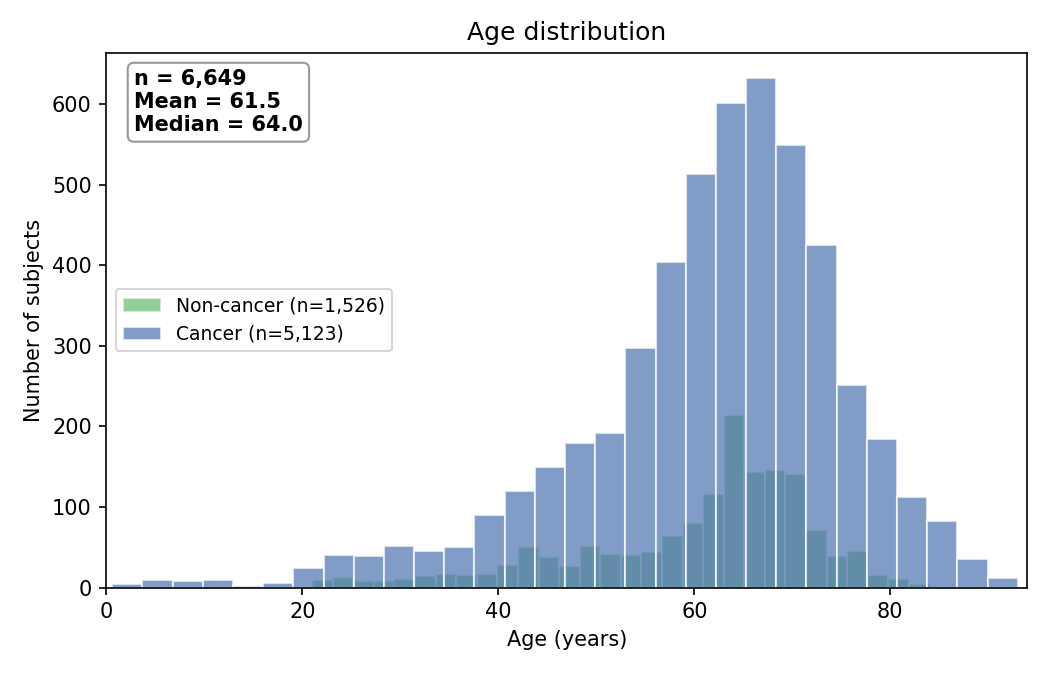
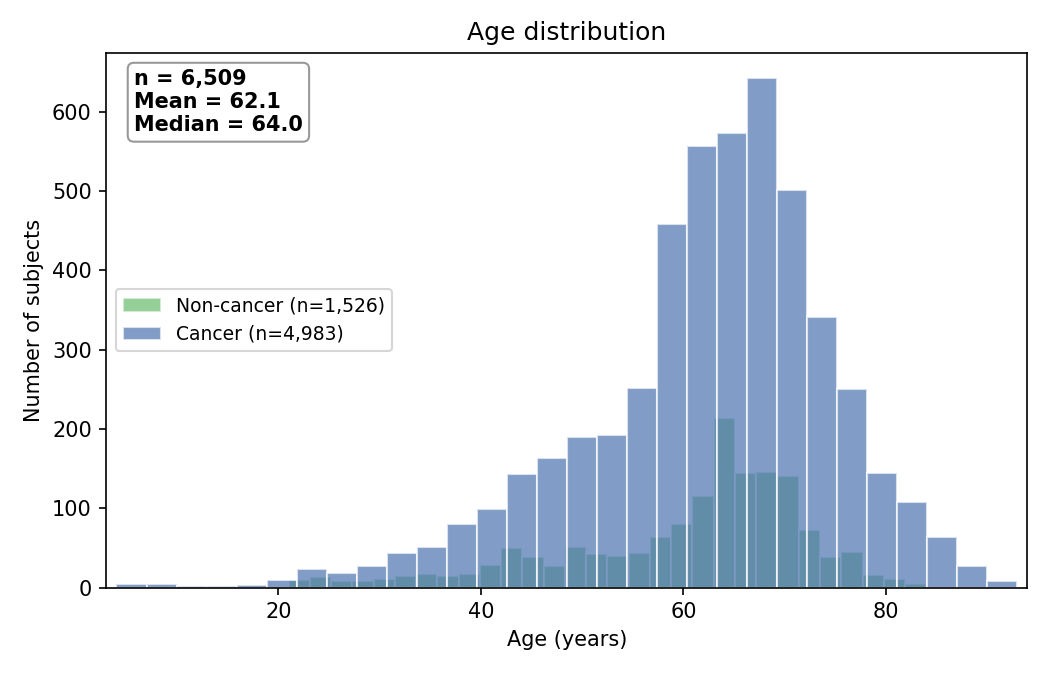
Update dashboard 2026-09-07 11:30

diff --git a/global_map.html b/global_map.html
@@ -2,6 +2,6 @@
 <head><meta charset="utf-8" /></head>
 <body>
     <div style="height:500px; width:100%;">                        <script>window.PlotlyConfig = {MathJaxConfig: 'local'};</script>
-        <script charset="utf-8" src="https://cdn.plot.ly/plotly-3.7.0.min.js" integrity="sha256-jvTGqxNp8AGWEcvNLVuKr+8j5dGe9Yw51LQkmDH+IYA=" crossorigin="anonymous"></script>                <div id="c86f0f5b-407a-4811-8865-06a8cb90c9fa" class="plotly-graph-div" style="height:100%; width:100%;"></div>            <script>                window.PLOTLYENV=window.PLOTLYENV || {};                                if (document.getElementById("c86f0f5b-407a-4811-8865-06a8cb90c9fa")) {                    Plotly.newPlot(                        "c86f0f5b-407a-4811-8865-06a8cb90c9fa",                        [{"colorscale":[[0,"#FEF9E7"],[1,"#E59866"]],"hoverinfo":"text","locations":["AUT","CAN","CHN","CZE","FRA","DEU","IND","ISR","ITA","JPN","NLD","POL","KOR","ESP","CHE","TUR","GBR","USA"],"marker":{"line":{"color":"white","width":0.5}},"showscale":false,"text":["\u003cb\u003eAustria\u003c\u002fb\u003e\u003cbr\u003eTotal samples: 154\u003cbr\u003eStudies: 1\u003cbr\u003e\u2500\u2500\u2500\u2500\u2500\u2500\u2500\u2500\u2500\u2500\u2500\u2500\u2500\u003cbr\u003eCRC: 93","\u003cb\u003eCanada\u003c\u002fb\u003e\u003cbr\u003eTotal samples: 98\u003cbr\u003eStudies: 2\u003cbr\u003e\u2500\u2500\u2500\u2500\u2500\u2500\u2500\u2500\u2500\u2500\u2500\u2500\u2500\u003cbr\u003eMelanoma: 60\u003cbr\u003eCRC: 24","\u003cb\u003eChina\u003c\u002fb\u003e\u003cbr\u003eTotal samples: 756\u003cbr\u003eStudies: 7\u003cbr\u003e\u2500\u2500\u2500\u2500\u2500\u2500\u2500\u2500\u2500\u2500\u2500\u2500\u2500\u003cbr\u003eCRC: 418\u003cbr\u003eLymphoma: 111\u003cbr\u003eLeukemia: 20","\u003cb\u003eCzech Republic\u003c\u002fb\u003e\u003cbr\u003eTotal samples: 327\u003cbr\u003eStudies: 2\u003cbr\u003e\u2500\u2500\u2500\u2500\u2500\u2500\u2500\u2500\u2500\u2500\u2500\u2500\u2500\u003cbr\u003eCRC: 281","\u003cb\u003eFrance\u003c\u002fb\u003e\u003cbr\u003eTotal samples: 1,373\u003cbr\u003eStudies: 4\u003cbr\u003e\u2500\u2500\u2500\u2500\u2500\u2500\u2500\u2500\u2500\u2500\u2500\u2500\u2500\u003cbr\u003eLung Cancer: 1,217\u003cbr\u003eCRC: 95","\u003cb\u003eGermany\u003c\u002fb\u003e\u003cbr\u003eTotal samples: 430\u003cbr\u003eStudies: 3\u003cbr\u003e\u2500\u2500\u2500\u2500\u2500\u2500\u2500\u2500\u2500\u2500\u2500\u2500\u2500\u003cbr\u003eLymphoma: 229\u003cbr\u003ePancreatic Cancer: 76\u003cbr\u003eCRC: 60","\u003cb\u003eIndia\u003c\u002fb\u003e\u003cbr\u003eTotal samples: 200\u003cbr\u003eStudies: 2\u003cbr\u003e\u2500\u2500\u2500\u2500\u2500\u2500\u2500\u2500\u2500\u2500\u2500\u2500\u2500\u003cbr\u003eCRC: 170","\u003cb\u003eIsrael\u003c\u002fb\u003e\u003cbr\u003eTotal samples: 42\u003cbr\u003eStudies: 1\u003cbr\u003e\u2500\u2500\u2500\u2500\u2500\u2500\u2500\u2500\u2500\u2500\u2500\u2500\u2500\u003cbr\u003eMelanoma: 42","\u003cb\u003eItaly\u003c\u002fb\u003e\u003cbr\u003eTotal samples: 484\u003cbr\u003eStudies: 4\u003cbr\u003e\u2500\u2500\u2500\u2500\u2500\u2500\u2500\u2500\u2500\u2500\u2500\u2500\u2500\u003cbr\u003eCRC: 373","\u003cb\u003eJapan\u003c\u002fb\u003e\u003cbr\u003eTotal samples: 1,766\u003cbr\u003eStudies: 4\u003cbr\u003e\u2500\u2500\u2500\u2500\u2500\u2500\u2500\u2500\u2500\u2500\u2500\u2500\u2500\u003cbr\u003eCRC: 807\u003cbr\u003ePancreatic Cancer: 560","\u003cb\u003eNetherlands\u003c\u002fb\u003e\u003cbr\u003eTotal samples: 75\u003cbr\u003eStudies: 2\u003cbr\u003e\u2500\u2500\u2500\u2500\u2500\u2500\u2500\u2500\u2500\u2500\u2500\u2500\u2500\u003cbr\u003eMelanoma: 75","\u003cb\u003ePoland\u003c\u002fb\u003e\u003cbr\u003eTotal samples: 322\u003cbr\u003eStudies: 2\u003cbr\u003e\u2500\u2500\u2500\u2500\u2500\u2500\u2500\u2500\u2500\u2500\u2500\u2500\u2500\u003cbr\u003eBreast Cancer: 153\u003cbr\u003eLymphoma: 60\u003cbr\u003eLeukemia: 40","\u003cb\u003eSouth Korea\u003c\u002fb\u003e\u003cbr\u003eTotal samples: 149\u003cbr\u003eStudies: 2\u003cbr\u003e\u2500\u2500\u2500\u2500\u2500\u2500\u2500\u2500\u2500\u2500\u2500\u2500\u2500\u003cbr\u003eLymphoma: 149","\u003cb\u003eSpain\u003c\u002fb\u003e\u003cbr\u003eTotal samples: 355\u003cbr\u003eStudies: 3\u003cbr\u003e\u2500\u2500\u2500\u2500\u2500\u2500\u2500\u2500\u2500\u2500\u2500\u2500\u2500\u003cbr\u003ePancreatic Cancer: 253\u003cbr\u003eCRC: 90\u003cbr\u003eMelanoma: 12","\u003cb\u003eSwitzerland\u003c\u002fb\u003e\u003cbr\u003eTotal samples: 29\u003cbr\u003eStudies: 1\u003cbr\u003e\u2500\u2500\u2500\u2500\u2500\u2500\u2500\u2500\u2500\u2500\u2500\u2500\u2500\u003cbr\u003eProstate Cancer: 29","\u003cb\u003eTurkey\u003c\u002fb\u003e\u003cbr\u003eTotal samples: 57\u003cbr\u003eStudies: 1\u003cbr\u003e\u2500\u2500\u2500\u2500\u2500\u2500\u2500\u2500\u2500\u2500\u2500\u2500\u2500\u003cbr\u003eCRC: 18","\u003cb\u003eUnited Kingdom\u003c\u002fb\u003e\u003cbr\u003eTotal samples: 143\u003cbr\u003eStudies: 2\u003cbr\u003e\u2500\u2500\u2500\u2500\u2500\u2500\u2500\u2500\u2500\u2500\u2500\u2500\u2500\u003cbr\u003eMelanoma: 98\u003cbr\u003eProstate Cancer: 45","\u003cb\u003eUnited States\u003c\u002fb\u003e\u003cbr\u003eTotal samples: 2,096\u003cbr\u003eStudies: 13\u003cbr\u003e\u2500\u2500\u2500\u2500\u2500\u2500\u2500\u2500\u2500\u2500\u2500\u2500\u2500\u003cbr\u003eCRC: 836\u003cbr\u003eMelanoma: 607\u003cbr\u003eLymphoma: 122"],"z":{"dtype":"i2","bdata":"mgBiAPQCRwFdBa4ByAAqAOQB5gZLAEIBlQBjAR0AOQCPADAI"},"type":"choropleth"},{"hoverinfo":"text","locations":["AUT","CAN","CHN","CZE","FRA","DEU","IND","ISR","ITA","JPN","NLD","POL","KOR","ESP","CHE","TUR","GBR","USA"],"marker":{"color":"#2166AC","line":{"color":"white","width":1},"opacity":0.7,"size":{"dtype":"f8","bdata":"AAAAAAAAIEAAAAAAAAAgQD0K16NwPS5AAAAAAAAAIED2KFyPwnU7QDMzMzMzMyFAAAAAAAAAIEAAAAAAAAAgQFyPwvUoXCNAKVyPwvWoQUAAAAAAAAAgQAAAAAAAACBAAAAAAAAAIEAAAAAAAAAgQAAAAAAAACBAAAAAAAAAIEAAAAAAAAAgQPYoXI\u002fC9URA"}},"mode":"markers","text":["\u003cb\u003eAustria\u003c\u002fb\u003e\u003cbr\u003eTotal samples: 154\u003cbr\u003eStudies: 1\u003cbr\u003e\u2500\u2500\u2500\u2500\u2500\u2500\u2500\u2500\u2500\u2500\u2500\u2500\u2500\u003cbr\u003eCRC: 93","\u003cb\u003eCanada\u003c\u002fb\u003e\u003cbr\u003eTotal samples: 98\u003cbr\u003eStudies: 2\u003cbr\u003e\u2500\u2500\u2500\u2500\u2500\u2500\u2500\u2500\u2500\u2500\u2500\u2500\u2500\u003cbr\u003eMelanoma: 60\u003cbr\u003eCRC: 24","\u003cb\u003eChina\u003c\u002fb\u003e\u003cbr\u003eTotal samples: 756\u003cbr\u003eStudies: 7\u003cbr\u003e\u2500\u2500\u2500\u2500\u2500\u2500\u2500\u2500\u2500\u2500\u2500\u2500\u2500\u003cbr\u003eCRC: 418\u003cbr\u003eLymphoma: 111\u003cbr\u003eLeukemia: 20","\u003cb\u003eCzech Republic\u003c\u002fb\u003e\u003cbr\u003eTotal samples: 327\u003cbr\u003eStudies: 2\u003cbr\u003e\u2500\u2500\u2500\u2500\u2500\u2500\u2500\u2500\u2500\u2500\u2500\u2500\u2500\u003cbr\u003eCRC: 281","\u003cb\u003eFrance\u003c\u002fb\u003e\u003cbr\u003eTotal samples: 1,373\u003cbr\u003eStudies: 4\u003cbr\u003e\u2500\u2500\u2500\u2500\u2500\u2500\u2500\u2500\u2500\u2500\u2500\u2500\u2500\u003cbr\u003eLung Cancer: 1,217\u003cbr\u003eCRC: 95","\u003cb\u003eGermany\u003c\u002fb\u003e\u003cbr\u003eTotal samples: 430\u003cbr\u003eStudies: 3\u003cbr\u003e\u2500\u2500\u2500\u2500\u2500\u2500\u2500\u2500\u2500\u2500\u2500\u2500\u2500\u003cbr\u003eLymphoma: 229\u003cbr\u003ePancreatic Cancer: 76\u003cbr\u003eCRC: 60","\u003cb\u003eIndia\u003c\u002fb\u003e\u003cbr\u003eTotal samples: 200\u003cbr\u003eStudies: 2\u003cbr\u003e\u2500\u2500\u2500\u2500\u2500\u2500\u2500\u2500\u2500\u2500\u2500\u2500\u2500\u003cbr\u003eCRC: 170","\u003cb\u003eIsrael\u003c\u002fb\u003e\u003cbr\u003eTotal samples: 42\u003cbr\u003eStudies: 1\u003cbr\u003e\u2500\u2500\u2500\u2500\u2500\u2500\u2500\u2500\u2500\u2500\u2500\u2500\u2500\u003cbr\u003eMelanoma: 42","\u003cb\u003eItaly\u003c\u002fb\u003e\u003cbr\u003eTotal samples: 484\u003cbr\u003eStudies: 4\u003cbr\u003e\u2500\u2500\u2500\u2500\u2500\u2500\u2500\u2500\u2500\u2500\u2500\u2500\u2500\u003cbr\u003eCRC: 373","\u003cb\u003eJapan\u003c\u002fb\u003e\u003cbr\u003eTotal samples: 1,766\u003cbr\u003eStudies: 4\u003cbr\u003e\u2500\u2500\u2500\u2500\u2500\u2500\u2500\u2500\u2500\u2500\u2500\u2500\u2500\u003cbr\u003eCRC: 807\u003cbr\u003ePancreatic Cancer: 560","\u003cb\u003eNetherlands\u003c\u002fb\u003e\u003cbr\u003eTotal samples: 75\u003cbr\u003eStudies: 2\u003cbr\u003e\u2500\u2500\u2500\u2500\u2500\u2500\u2500\u2500\u2500\u2500\u2500\u2500\u2500\u003cbr\u003eMelanoma: 75","\u003cb\u003ePoland\u003c\u002fb\u003e\u003cbr\u003eTotal samples: 322\u003cbr\u003eStudies: 2\u003cbr\u003e\u2500\u2500\u2500\u2500\u2500\u2500\u2500\u2500\u2500\u2500\u2500\u2500\u2500\u003cbr\u003eBreast Cancer: 153\u003cbr\u003eLymphoma: 60\u003cbr\u003eLeukemia: 40","\u003cb\u003eSouth Korea\u003c\u002fb\u003e\u003cbr\u003eTotal samples: 149\u003cbr\u003eStudies: 2\u003cbr\u003e\u2500\u2500\u2500\u2500\u2500\u2500\u2500\u2500\u2500\u2500\u2500\u2500\u2500\u003cbr\u003eLymphoma: 149","\u003cb\u003eSpain\u003c\u002fb\u003e\u003cbr\u003eTotal samples: 355\u003cbr\u003eStudies: 3\u003cbr\u003e\u2500\u2500\u2500\u2500\u2500\u2500\u2500\u2500\u2500\u2500\u2500\u2500\u2500\u003cbr\u003ePancreatic Cancer: 253\u003cbr\u003eCRC: 90\u003cbr\u003eMelanoma: 12","\u003cb\u003eSwitzerland\u003c\u002fb\u003e\u003cbr\u003eTotal samples: 29\u003cbr\u003eStudies: 1\u003cbr\u003e\u2500\u2500\u2500\u2500\u2500\u2500\u2500\u2500\u2500\u2500\u2500\u2500\u2500\u003cbr\u003eProstate Cancer: 29","\u003cb\u003eTurkey\u003c\u002fb\u003e\u003cbr\u003eTotal samples: 57\u003cbr\u003eStudies: 1\u003cbr\u003e\u2500\u2500\u2500\u2500\u2500\u2500\u2500\u2500\u2500\u2500\u2500\u2500\u2500\u003cbr\u003eCRC: 18","\u003cb\u003eUnited Kingdom\u003c\u002fb\u003e\u003cbr\u003eTotal samples: 143\u003cbr\u003eStudies: 2\u003cbr\u003e\u2500\u2500\u2500\u2500\u2500\u2500\u2500\u2500\u2500\u2500\u2500\u2500\u2500\u003cbr\u003eMelanoma: 98\u003cbr\u003eProstate Cancer: 45","\u003cb\u003eUnited States\u003c\u002fb\u003e\u003cbr\u003eTotal samples: 2,096\u003cbr\u003eStudies: 13\u003cbr\u003e\u2500\u2500\u2500\u2500\u2500\u2500\u2500\u2500\u2500\u2500\u2500\u2500\u2500\u003cbr\u003eCRC: 836\u003cbr\u003eMelanoma: 607\u003cbr\u003eLymphoma: 122"],"type":"scattergeo"}],                        {"template":{"data":{"histogram2dcontour":[{"type":"histogram2dcontour","colorbar":{"outlinewidth":0,"ticks":""},"colorscale":[[0.0,"#0d0887"],[0.1111111111111111,"#46039f"],[0.2222222222222222,"#7201a8"],[0.3333333333333333,"#9c179e"],[0.4444444444444444,"#bd3786"],[0.5555555555555556,"#d8576b"],[0.6666666666666666,"#ed7953"],[0.7777777777777778,"#fb9f3a"],[0.8888888888888888,"#fdca26"],[1.0,"#f0f921"]]}],"choropleth":[{"type":"choropleth","colorbar":{"outlinewidth":0,"ticks":""}}],"histogram2d":[{"type":"histogram2d","colorbar":{"outlinewidth":0,"ticks":""},"colorscale":[[0.0,"#0d0887"],[0.1111111111111111,"#46039f"],[0.2222222222222222,"#7201a8"],[0.3333333333333333,"#9c179e"],[0.4444444444444444,"#bd3786"],[0.5555555555555556,"#d8576b"],[0.6666666666666666,"#ed7953"],[0.7777777777777778,"#fb9f3a"],[0.8888888888888888,"#fdca26"],[1.0,"#f0f921"]]}],"heatmap":[{"type":"heatmap","colorbar":{"outlinewidth":0,"ticks":""},"colorscale":[[0.0,"#0d0887"],[0.1111111111111111,"#46039f"],[0.2222222222222222,"#7201a8"],[0.3333333333333333,"#9c179e"],[0.4444444444444444,"#bd3786"],[0.5555555555555556,"#d8576b"],[0.6666666666666666,"#ed7953"],[0.7777777777777778,"#fb9f3a"],[0.8888888888888888,"#fdca26"],[1.0,"#f0f921"]]}],"contourcarpet":[{"type":"contourcarpet","colorbar":{"outlinewidth":0,"ticks":""}}],"contour":[{"type":"contour","colorbar":{"outlinewidth":0,"ticks":""},"colorscale":[[0.0,"#0d0887"],[0.1111111111111111,"#46039f"],[0.2222222222222222,"#7201a8"],[0.3333333333333333,"#9c179e"],[0.4444444444444444,"#bd3786"],[0.5555555555555556,"#d8576b"],[0.6666666666666666,"#ed7953"],[0.7777777777777778,"#fb9f3a"],[0.8888888888888888,"#fdca26"],[1.0,"#f0f921"]]}],"surface":[{"type":"surface","colorbar":{"outlinewidth":0,"ticks":""},"colorscale":[[0.0,"#0d0887"],[0.1111111111111111,"#46039f"],[0.2222222222222222,"#7201a8"],[0.3333333333333333,"#9c179e"],[0.4444444444444444,"#bd3786"],[0.5555555555555556,"#d8576b"],[0.6666666666666666,"#ed7953"],[0.7777777777777778,"#fb9f3a"],[0.8888888888888888,"#fdca26"],[1.0,"#f0f921"]]}],"mesh3d":[{"type":"mesh3d","colorbar":{"outlinewidth":0,"ticks":""}}],"scatter":[{"fillpattern":{"fillmode":"overlay","size":10,"solidity":0.2},"type":"scatter"}],"parcoords":[{"type":"parcoords","line":{"colorbar":{"outlinewidth":0,"ticks":""}}}],"scatterpolargl":[{"type":"scatterpolargl","marker":{"colorbar":{"outlinewidth":0,"ticks":""}}}],"bar":[{"error_x":{"color":"#2a3f5f"},"error_y":{"color":"#2a3f5f"},"marker":{"line":{"color":"#E5ECF6","width":0.5},"pattern":{"fillmode":"overlay","size":10,"solidity":0.2}},"type":"bar"}],"scattergeo":[{"type":"scattergeo","marker":{"colorbar":{"outlinewidth":0,"ticks":""}}}],"scatterpolar":[{"type":"scatterpolar","marker":{"colorbar":{"outlinewidth":0,"ticks":""}}}],"histogram":[{"marker":{"pattern":{"fillmode":"overlay","size":10,"solidity":0.2}},"type":"histogram"}],"scattergl":[{"type":"scattergl","marker":{"colorbar":{"outlinewidth":0,"ticks":""}}}],"scatter3d":[{"type":"scatter3d","line":{"colorbar":{"outlinewidth":0,"ticks":""}},"marker":{"colorbar":{"outlinewidth":0,"ticks":""}}}],"scattermap":[{"type":"scattermap","marker":{"colorbar":{"outlinewidth":0,"ticks":""}}}],"scattermapbox":[{"type":"scattermapbox","marker":{"colorbar":{"outlinewidth":0,"ticks":""}}}],"scatterternary":[{"type":"scatterternary","marker":{"colorbar":{"outlinewidth":0,"ticks":""}}}],"scattercarpet":[{"type":"scattercarpet","marker":{"colorbar":{"outlinewidth":0,"ticks":""}}}],"carpet":[{"aaxis":{"endlinecolor":"#2a3f5f","gridcolor":"white","linecolor":"white","minorgridcolor":"white","startlinecolor":"#2a3f5f"},"baxis":{"endlinecolor":"#2a3f5f","gridcolor":"white","linecolor":"white","minorgridcolor":"white","startlinecolor":"#2a3f5f"},"type":"carpet"}],"table":[{"cells":{"fill":{"color":"#EBF0F8"},"line":{"color":"white"}},"header":{"fill":{"color":"#C8D4E3"},"line":{"color":"white"}},"type":"table"}],"barpolar":[{"marker":{"line":{"color":"#E5ECF6","width":0.5},"pattern":{"fillmode":"overlay","size":10,"solidity":0.2}},"type":"barpolar"}],"pie":[{"automargin":true,"type":"pie"}]},"layout":{"autotypenumbers":"strict","colorway":["#636efa","#EF553B","#00cc96","#ab63fa","#FFA15A","#19d3f3","#FF6692","#B6E880","#FF97FF","#FECB52"],"font":{"color":"#2a3f5f"},"hovermode":"closest","hoverlabel":{"align":"left"},"paper_bgcolor":"white","plot_bgcolor":"#E5ECF6","polar":{"bgcolor":"#E5ECF6","angularaxis":{"gridcolor":"white","linecolor":"white","ticks":""},"radialaxis":{"gridcolor":"white","linecolor":"white","ticks":""}},"ternary":{"bgcolor":"#E5ECF6","aaxis":{"gridcolor":"white","linecolor":"white","ticks":""},"baxis":{"gridcolor":"white","linecolor":"white","ticks":""},"caxis":{"gridcolor":"white","linecolor":"white","ticks":""}},"coloraxis":{"colorbar":{"outlinewidth":0,"ticks":""}},"colorscale":{"sequential":[[0.0,"#0d0887"],[0.1111111111111111,"#46039f"],[0.2222222222222222,"#7201a8"],[0.3333333333333333,"#9c179e"],[0.4444444444444444,"#bd3786"],[0.5555555555555556,"#d8576b"],[0.6666666666666666,"#ed7953"],[0.7777777777777778,"#fb9f3a"],[0.8888888888888888,"#fdca26"],[1.0,"#f0f921"]],"sequentialminus":[[0.0,"#0d0887"],[0.1111111111111111,"#46039f"],[0.2222222222222222,"#7201a8"],[0.3333333333333333,"#9c179e"],[0.4444444444444444,"#bd3786"],[0.5555555555555556,"#d8576b"],[0.6666666666666666,"#ed7953"],[0.7777777777777778,"#fb9f3a"],[0.8888888888888888,"#fdca26"],[1.0,"#f0f921"]],"diverging":[[0,"#8e0152"],[0.1,"#c51b7d"],[0.2,"#de77ae"],[0.3,"#f1b6da"],[0.4,"#fde0ef"],[0.5,"#f7f7f7"],[0.6,"#e6f5d0"],[0.7,"#b8e186"],[0.8,"#7fbc41"],[0.9,"#4d9221"],[1,"#276419"]]},"xaxis":{"gridcolor":"white","linecolor":"white","ticks":"","title":{"standoff":15},"zerolinecolor":"white","automargin":true,"zerolinewidth":2},"yaxis":{"gridcolor":"white","linecolor":"white","ticks":"","title":{"standoff":15},"zerolinecolor":"white","automargin":true,"zerolinewidth":2},"scene":{"xaxis":{"backgroundcolor":"#E5ECF6","gridcolor":"white","linecolor":"white","showbackground":true,"ticks":"","zerolinecolor":"white","gridwidth":2},"yaxis":{"backgroundcolor":"#E5ECF6","gridcolor":"white","linecolor":"white","showbackground":true,"ticks":"","zerolinecolor":"white","gridwidth":2},"zaxis":{"backgroundcolor":"#E5ECF6","gridcolor":"white","linecolor":"white","showbackground":true,"ticks":"","zerolinecolor":"white","gridwidth":2}},"shapedefaults":{"line":{"color":"#2a3f5f"}},"annotationdefaults":{"arrowcolor":"#2a3f5f","arrowhead":0,"arrowwidth":1},"geo":{"bgcolor":"white","landcolor":"#E5ECF6","subunitcolor":"white","showland":true,"showlakes":true,"lakecolor":"white"},"title":{"x":0.05},"mapbox":{"style":"light"}}},"geo":{"projection":{"type":"natural earth"},"showframe":false,"showcoastlines":true,"coastlinecolor":"grey","showland":true,"landcolor":"#F5F5F2","showocean":true,"oceancolor":"#EAF2F8","showlakes":false,"bgcolor":"#EAF2F8"},"margin":{"l":0,"r":0,"t":30,"b":0},"title":{"font":{"size":16},"text":"Global distribution of cancer microbiome studies","x":0.5},"hoverlabel":{"font":{"size":13,"family":"Arial"},"bgcolor":"white"},"height":500,"paper_bgcolor":"white"},                        {"responsive": true}                    )                };            </script>        </div>
+        <script charset="utf-8" src="https://cdn.plot.ly/plotly-3.7.0.min.js" integrity="sha256-jvTGqxNp8AGWEcvNLVuKr+8j5dGe9Yw51LQkmDH+IYA=" crossorigin="anonymous"></script>                <div id="2e5592ee-933a-47bc-82ba-f1928764b4ab" class="plotly-graph-div" style="height:100%; width:100%;"></div>            <script>                window.PLOTLYENV=window.PLOTLYENV || {};                                if (document.getElementById("2e5592ee-933a-47bc-82ba-f1928764b4ab")) {                    Plotly.newPlot(                        "2e5592ee-933a-47bc-82ba-f1928764b4ab",                        [{"colorscale":[[0,"#FEF9E7"],[1,"#E59866"]],"hoverinfo":"text","locations":["AUT","CAN","CHN","CZE","FRA","DEU","IND","ISR","ITA","JPN","NLD","POL","KOR","ESP","CHE","TUR","GBR","USA"],"marker":{"line":{"color":"white","width":0.5}},"showscale":false,"text":["\u003cb\u003eAustria\u003c\u002fb\u003e\u003cbr\u003eTotal samples: 154\u003cbr\u003eStudies: 1\u003cbr\u003e\u2500\u2500\u2500\u2500\u2500\u2500\u2500\u2500\u2500\u2500\u2500\u2500\u2500\u003cbr\u003eCRC: 93","\u003cb\u003eCanada\u003c\u002fb\u003e\u003cbr\u003eTotal samples: 98\u003cbr\u003eStudies: 2\u003cbr\u003e\u2500\u2500\u2500\u2500\u2500\u2500\u2500\u2500\u2500\u2500\u2500\u2500\u2500\u003cbr\u003eMelanoma: 60\u003cbr\u003eCRC: 24","\u003cb\u003eChina\u003c\u002fb\u003e\u003cbr\u003eTotal samples: 756\u003cbr\u003eStudies: 7\u003cbr\u003e\u2500\u2500\u2500\u2500\u2500\u2500\u2500\u2500\u2500\u2500\u2500\u2500\u2500\u003cbr\u003eCRC: 418\u003cbr\u003eLymphoma: 111\u003cbr\u003eLeukemia: 20","\u003cb\u003eCzech Republic\u003c\u002fb\u003e\u003cbr\u003eTotal samples: 327\u003cbr\u003eStudies: 2\u003cbr\u003e\u2500\u2500\u2500\u2500\u2500\u2500\u2500\u2500\u2500\u2500\u2500\u2500\u2500\u003cbr\u003eCRC: 281","\u003cb\u003eFrance\u003c\u002fb\u003e\u003cbr\u003eTotal samples: 1,373\u003cbr\u003eStudies: 4\u003cbr\u003e\u2500\u2500\u2500\u2500\u2500\u2500\u2500\u2500\u2500\u2500\u2500\u2500\u2500\u003cbr\u003eLung Cancer: 1,217\u003cbr\u003eCRC: 95","\u003cb\u003eGermany\u003c\u002fb\u003e\u003cbr\u003eTotal samples: 430\u003cbr\u003eStudies: 3\u003cbr\u003e\u2500\u2500\u2500\u2500\u2500\u2500\u2500\u2500\u2500\u2500\u2500\u2500\u2500\u003cbr\u003eLymphoma: 229\u003cbr\u003ePancreatic Cancer: 76\u003cbr\u003eCRC: 60","\u003cb\u003eIndia\u003c\u002fb\u003e\u003cbr\u003eTotal samples: 60\u003cbr\u003eStudies: 1\u003cbr\u003e\u2500\u2500\u2500\u2500\u2500\u2500\u2500\u2500\u2500\u2500\u2500\u2500\u2500\u003cbr\u003eCRC: 30","\u003cb\u003eIsrael\u003c\u002fb\u003e\u003cbr\u003eTotal samples: 42\u003cbr\u003eStudies: 1\u003cbr\u003e\u2500\u2500\u2500\u2500\u2500\u2500\u2500\u2500\u2500\u2500\u2500\u2500\u2500\u003cbr\u003eMelanoma: 42","\u003cb\u003eItaly\u003c\u002fb\u003e\u003cbr\u003eTotal samples: 484\u003cbr\u003eStudies: 4\u003cbr\u003e\u2500\u2500\u2500\u2500\u2500\u2500\u2500\u2500\u2500\u2500\u2500\u2500\u2500\u003cbr\u003eCRC: 373","\u003cb\u003eJapan\u003c\u002fb\u003e\u003cbr\u003eTotal samples: 1,766\u003cbr\u003eStudies: 4\u003cbr\u003e\u2500\u2500\u2500\u2500\u2500\u2500\u2500\u2500\u2500\u2500\u2500\u2500\u2500\u003cbr\u003eCRC: 807\u003cbr\u003ePancreatic Cancer: 560","\u003cb\u003eNetherlands\u003c\u002fb\u003e\u003cbr\u003eTotal samples: 75\u003cbr\u003eStudies: 2\u003cbr\u003e\u2500\u2500\u2500\u2500\u2500\u2500\u2500\u2500\u2500\u2500\u2500\u2500\u2500\u003cbr\u003eMelanoma: 75","\u003cb\u003ePoland\u003c\u002fb\u003e\u003cbr\u003eTotal samples: 322\u003cbr\u003eStudies: 2\u003cbr\u003e\u2500\u2500\u2500\u2500\u2500\u2500\u2500\u2500\u2500\u2500\u2500\u2500\u2500\u003cbr\u003eBreast Cancer: 153\u003cbr\u003eLymphoma: 60\u003cbr\u003eLeukemia: 40","\u003cb\u003eSouth Korea\u003c\u002fb\u003e\u003cbr\u003eTotal samples: 149\u003cbr\u003eStudies: 2\u003cbr\u003e\u2500\u2500\u2500\u2500\u2500\u2500\u2500\u2500\u2500\u2500\u2500\u2500\u2500\u003cbr\u003eLymphoma: 149","\u003cb\u003eSpain\u003c\u002fb\u003e\u003cbr\u003eTotal samples: 355\u003cbr\u003eStudies: 3\u003cbr\u003e\u2500\u2500\u2500\u2500\u2500\u2500\u2500\u2500\u2500\u2500\u2500\u2500\u2500\u003cbr\u003ePancreatic Cancer: 253\u003cbr\u003eCRC: 90\u003cbr\u003eMelanoma: 12","\u003cb\u003eSwitzerland\u003c\u002fb\u003e\u003cbr\u003eTotal samples: 29\u003cbr\u003eStudies: 1\u003cbr\u003e\u2500\u2500\u2500\u2500\u2500\u2500\u2500\u2500\u2500\u2500\u2500\u2500\u2500\u003cbr\u003eProstate Cancer: 29","\u003cb\u003eTurkey\u003c\u002fb\u003e\u003cbr\u003eTotal samples: 57\u003cbr\u003eStudies: 1\u003cbr\u003e\u2500\u2500\u2500\u2500\u2500\u2500\u2500\u2500\u2500\u2500\u2500\u2500\u2500\u003cbr\u003eCRC: 18","\u003cb\u003eUnited Kingdom\u003c\u002fb\u003e\u003cbr\u003eTotal samples: 143\u003cbr\u003eStudies: 2\u003cbr\u003e\u2500\u2500\u2500\u2500\u2500\u2500\u2500\u2500\u2500\u2500\u2500\u2500\u2500\u003cbr\u003eMelanoma: 98\u003cbr\u003eProstate Cancer: 45","\u003cb\u003eUnited States\u003c\u002fb\u003e\u003cbr\u003eTotal samples: 2,096\u003cbr\u003eStudies: 13\u003cbr\u003e\u2500\u2500\u2500\u2500\u2500\u2500\u2500\u2500\u2500\u2500\u2500\u2500\u2500\u003cbr\u003eCRC: 836\u003cbr\u003eMelanoma: 607\u003cbr\u003eLymphoma: 122"],"z":{"dtype":"i2","bdata":"mgBiAPQCRwFdBa4BPAAqAOQB5gZLAEIBlQBjAR0AOQCPADAI"},"type":"choropleth"},{"hoverinfo":"text","locations":["AUT","CAN","CHN","CZE","FRA","DEU","IND","ISR","ITA","JPN","NLD","POL","KOR","ESP","CHE","TUR","GBR","USA"],"marker":{"color":"#2166AC","line":{"color":"white","width":1},"opacity":0.7,"size":{"dtype":"f8","bdata":"AAAAAAAAIEAAAAAAAAAgQD0K16NwPS5AAAAAAAAAIED2KFyPwnU7QDMzMzMzMyFAAAAAAAAAIEAAAAAAAAAgQFyPwvUoXCNAKVyPwvWoQUAAAAAAAAAgQAAAAAAAACBAAAAAAAAAIEAAAAAAAAAgQAAAAAAAACBAAAAAAAAAIEAAAAAAAAAgQPYoXI\u002fC9URA"}},"mode":"markers","text":["\u003cb\u003eAustria\u003c\u002fb\u003e\u003cbr\u003eTotal samples: 154\u003cbr\u003eStudies: 1\u003cbr\u003e\u2500\u2500\u2500\u2500\u2500\u2500\u2500\u2500\u2500\u2500\u2500\u2500\u2500\u003cbr\u003eCRC: 93","\u003cb\u003eCanada\u003c\u002fb\u003e\u003cbr\u003eTotal samples: 98\u003cbr\u003eStudies: 2\u003cbr\u003e\u2500\u2500\u2500\u2500\u2500\u2500\u2500\u2500\u2500\u2500\u2500\u2500\u2500\u003cbr\u003eMelanoma: 60\u003cbr\u003eCRC: 24","\u003cb\u003eChina\u003c\u002fb\u003e\u003cbr\u003eTotal samples: 756\u003cbr\u003eStudies: 7\u003cbr\u003e\u2500\u2500\u2500\u2500\u2500\u2500\u2500\u2500\u2500\u2500\u2500\u2500\u2500\u003cbr\u003eCRC: 418\u003cbr\u003eLymphoma: 111\u003cbr\u003eLeukemia: 20","\u003cb\u003eCzech Republic\u003c\u002fb\u003e\u003cbr\u003eTotal samples: 327\u003cbr\u003eStudies: 2\u003cbr\u003e\u2500\u2500\u2500\u2500\u2500\u2500\u2500\u2500\u2500\u2500\u2500\u2500\u2500\u003cbr\u003eCRC: 281","\u003cb\u003eFrance\u003c\u002fb\u003e\u003cbr\u003eTotal samples: 1,373\u003cbr\u003eStudies: 4\u003cbr\u003e\u2500\u2500\u2500\u2500\u2500\u2500\u2500\u2500\u2500\u2500\u2500\u2500\u2500\u003cbr\u003eLung Cancer: 1,217\u003cbr\u003eCRC: 95","\u003cb\u003eGermany\u003c\u002fb\u003e\u003cbr\u003eTotal samples: 430\u003cbr\u003eStudies: 3\u003cbr\u003e\u2500\u2500\u2500\u2500\u2500\u2500\u2500\u2500\u2500\u2500\u2500\u2500\u2500\u003cbr\u003eLymphoma: 229\u003cbr\u003ePancreatic Cancer: 76\u003cbr\u003eCRC: 60","\u003cb\u003eIndia\u003c\u002fb\u003e\u003cbr\u003eTotal samples: 60\u003cbr\u003eStudies: 1\u003cbr\u003e\u2500\u2500\u2500\u2500\u2500\u2500\u2500\u2500\u2500\u2500\u2500\u2500\u2500\u003cbr\u003eCRC: 30","\u003cb\u003eIsrael\u003c\u002fb\u003e\u003cbr\u003eTotal samples: 42\u003cbr\u003eStudies: 1\u003cbr\u003e\u2500\u2500\u2500\u2500\u2500\u2500\u2500\u2500\u2500\u2500\u2500\u2500\u2500\u003cbr\u003eMelanoma: 42","\u003cb\u003eItaly\u003c\u002fb\u003e\u003cbr\u003eTotal samples: 484\u003cbr\u003eStudies: 4\u003cbr\u003e\u2500\u2500\u2500\u2500\u2500\u2500\u2500\u2500\u2500\u2500\u2500\u2500\u2500\u003cbr\u003eCRC: 373","\u003cb\u003eJapan\u003c\u002fb\u003e\u003cbr\u003eTotal samples: 1,766\u003cbr\u003eStudies: 4\u003cbr\u003e\u2500\u2500\u2500\u2500\u2500\u2500\u2500\u2500\u2500\u2500\u2500\u2500\u2500\u003cbr\u003eCRC: 807\u003cbr\u003ePancreatic Cancer: 560","\u003cb\u003eNetherlands\u003c\u002fb\u003e\u003cbr\u003eTotal samples: 75\u003cbr\u003eStudies: 2\u003cbr\u003e\u2500\u2500\u2500\u2500\u2500\u2500\u2500\u2500\u2500\u2500\u2500\u2500\u2500\u003cbr\u003eMelanoma: 75","\u003cb\u003ePoland\u003c\u002fb\u003e\u003cbr\u003eTotal samples: 322\u003cbr\u003eStudies: 2\u003cbr\u003e\u2500\u2500\u2500\u2500\u2500\u2500\u2500\u2500\u2500\u2500\u2500\u2500\u2500\u003cbr\u003eBreast Cancer: 153\u003cbr\u003eLymphoma: 60\u003cbr\u003eLeukemia: 40","\u003cb\u003eSouth Korea\u003c\u002fb\u003e\u003cbr\u003eTotal samples: 149\u003cbr\u003eStudies: 2\u003cbr\u003e\u2500\u2500\u2500\u2500\u2500\u2500\u2500\u2500\u2500\u2500\u2500\u2500\u2500\u003cbr\u003eLymphoma: 149","\u003cb\u003eSpain\u003c\u002fb\u003e\u003cbr\u003eTotal samples: 355\u003cbr\u003eStudies: 3\u003cbr\u003e\u2500\u2500\u2500\u2500\u2500\u2500\u2500\u2500\u2500\u2500\u2500\u2500\u2500\u003cbr\u003ePancreatic Cancer: 253\u003cbr\u003eCRC: 90\u003cbr\u003eMelanoma: 12","\u003cb\u003eSwitzerland\u003c\u002fb\u003e\u003cbr\u003eTotal samples: 29\u003cbr\u003eStudies: 1\u003cbr\u003e\u2500\u2500\u2500\u2500\u2500\u2500\u2500\u2500\u2500\u2500\u2500\u2500\u2500\u003cbr\u003eProstate Cancer: 29","\u003cb\u003eTurkey\u003c\u002fb\u003e\u003cbr\u003eTotal samples: 57\u003cbr\u003eStudies: 1\u003cbr\u003e\u2500\u2500\u2500\u2500\u2500\u2500\u2500\u2500\u2500\u2500\u2500\u2500\u2500\u003cbr\u003eCRC: 18","\u003cb\u003eUnited Kingdom\u003c\u002fb\u003e\u003cbr\u003eTotal samples: 143\u003cbr\u003eStudies: 2\u003cbr\u003e\u2500\u2500\u2500\u2500\u2500\u2500\u2500\u2500\u2500\u2500\u2500\u2500\u2500\u003cbr\u003eMelanoma: 98\u003cbr\u003eProstate Cancer: 45","\u003cb\u003eUnited States\u003c\u002fb\u003e\u003cbr\u003eTotal samples: 2,096\u003cbr\u003eStudies: 13\u003cbr\u003e\u2500\u2500\u2500\u2500\u2500\u2500\u2500\u2500\u2500\u2500\u2500\u2500\u2500\u003cbr\u003eCRC: 836\u003cbr\u003eMelanoma: 607\u003cbr\u003eLymphoma: 122"],"type":"scattergeo"}],                        {"template":{"data":{"histogram2dcontour":[{"type":"histogram2dcontour","colorbar":{"outlinewidth":0,"ticks":""},"colorscale":[[0.0,"#0d0887"],[0.1111111111111111,"#46039f"],[0.2222222222222222,"#7201a8"],[0.3333333333333333,"#9c179e"],[0.4444444444444444,"#bd3786"],[0.5555555555555556,"#d8576b"],[0.6666666666666666,"#ed7953"],[0.7777777777777778,"#fb9f3a"],[0.8888888888888888,"#fdca26"],[1.0,"#f0f921"]]}],"choropleth":[{"type":"choropleth","colorbar":{"outlinewidth":0,"ticks":""}}],"histogram2d":[{"type":"histogram2d","colorbar":{"outlinewidth":0,"ticks":""},"colorscale":[[0.0,"#0d0887"],[0.1111111111111111,"#46039f"],[0.2222222222222222,"#7201a8"],[0.3333333333333333,"#9c179e"],[0.4444444444444444,"#bd3786"],[0.5555555555555556,"#d8576b"],[0.6666666666666666,"#ed7953"],[0.7777777777777778,"#fb9f3a"],[0.8888888888888888,"#fdca26"],[1.0,"#f0f921"]]}],"heatmap":[{"type":"heatmap","colorbar":{"outlinewidth":0,"ticks":""},"colorscale":[[0.0,"#0d0887"],[0.1111111111111111,"#46039f"],[0.2222222222222222,"#7201a8"],[0.3333333333333333,"#9c179e"],[0.4444444444444444,"#bd3786"],[0.5555555555555556,"#d8576b"],[0.6666666666666666,"#ed7953"],[0.7777777777777778,"#fb9f3a"],[0.8888888888888888,"#fdca26"],[1.0,"#f0f921"]]}],"contourcarpet":[{"type":"contourcarpet","colorbar":{"outlinewidth":0,"ticks":""}}],"contour":[{"type":"contour","colorbar":{"outlinewidth":0,"ticks":""},"colorscale":[[0.0,"#0d0887"],[0.1111111111111111,"#46039f"],[0.2222222222222222,"#7201a8"],[0.3333333333333333,"#9c179e"],[0.4444444444444444,"#bd3786"],[0.5555555555555556,"#d8576b"],[0.6666666666666666,"#ed7953"],[0.7777777777777778,"#fb9f3a"],[0.8888888888888888,"#fdca26"],[1.0,"#f0f921"]]}],"surface":[{"type":"surface","colorbar":{"outlinewidth":0,"ticks":""},"colorscale":[[0.0,"#0d0887"],[0.1111111111111111,"#46039f"],[0.2222222222222222,"#7201a8"],[0.3333333333333333,"#9c179e"],[0.4444444444444444,"#bd3786"],[0.5555555555555556,"#d8576b"],[0.6666666666666666,"#ed7953"],[0.7777777777777778,"#fb9f3a"],[0.8888888888888888,"#fdca26"],[1.0,"#f0f921"]]}],"mesh3d":[{"type":"mesh3d","colorbar":{"outlinewidth":0,"ticks":""}}],"scatter":[{"fillpattern":{"fillmode":"overlay","size":10,"solidity":0.2},"type":"scatter"}],"parcoords":[{"type":"parcoords","line":{"colorbar":{"outlinewidth":0,"ticks":""}}}],"scatterpolargl":[{"type":"scatterpolargl","marker":{"colorbar":{"outlinewidth":0,"ticks":""}}}],"bar":[{"error_x":{"color":"#2a3f5f"},"error_y":{"color":"#2a3f5f"},"marker":{"line":{"color":"#E5ECF6","width":0.5},"pattern":{"fillmode":"overlay","size":10,"solidity":0.2}},"type":"bar"}],"scattergeo":[{"type":"scattergeo","marker":{"colorbar":{"outlinewidth":0,"ticks":""}}}],"scatterpolar":[{"type":"scatterpolar","marker":{"colorbar":{"outlinewidth":0,"ticks":""}}}],"histogram":[{"marker":{"pattern":{"fillmode":"overlay","size":10,"solidity":0.2}},"type":"histogram"}],"scattergl":[{"type":"scattergl","marker":{"colorbar":{"outlinewidth":0,"ticks":""}}}],"scatter3d":[{"type":"scatter3d","line":{"colorbar":{"outlinewidth":0,"ticks":""}},"marker":{"colorbar":{"outlinewidth":0,"ticks":""}}}],"scattermap":[{"type":"scattermap","marker":{"colorbar":{"outlinewidth":0,"ticks":""}}}],"scattermapbox":[{"type":"scattermapbox","marker":{"colorbar":{"outlinewidth":0,"ticks":""}}}],"scatterternary":[{"type":"scatterternary","marker":{"colorbar":{"outlinewidth":0,"ticks":""}}}],"scattercarpet":[{"type":"scattercarpet","marker":{"colorbar":{"outlinewidth":0,"ticks":""}}}],"carpet":[{"aaxis":{"endlinecolor":"#2a3f5f","gridcolor":"white","linecolor":"white","minorgridcolor":"white","startlinecolor":"#2a3f5f"},"baxis":{"endlinecolor":"#2a3f5f","gridcolor":"white","linecolor":"white","minorgridcolor":"white","startlinecolor":"#2a3f5f"},"type":"carpet"}],"table":[{"cells":{"fill":{"color":"#EBF0F8"},"line":{"color":"white"}},"header":{"fill":{"color":"#C8D4E3"},"line":{"color":"white"}},"type":"table"}],"barpolar":[{"marker":{"line":{"color":"#E5ECF6","width":0.5},"pattern":{"fillmode":"overlay","size":10,"solidity":0.2}},"type":"barpolar"}],"pie":[{"automargin":true,"type":"pie"}]},"layout":{"autotypenumbers":"strict","colorway":["#636efa","#EF553B","#00cc96","#ab63fa","#FFA15A","#19d3f3","#FF6692","#B6E880","#FF97FF","#FECB52"],"font":{"color":"#2a3f5f"},"hovermode":"closest","hoverlabel":{"align":"left"},"paper_bgcolor":"white","plot_bgcolor":"#E5ECF6","polar":{"bgcolor":"#E5ECF6","angularaxis":{"gridcolor":"white","linecolor":"white","ticks":""},"radialaxis":{"gridcolor":"white","linecolor":"white","ticks":""}},"ternary":{"bgcolor":"#E5ECF6","aaxis":{"gridcolor":"white","linecolor":"white","ticks":""},"baxis":{"gridcolor":"white","linecolor":"white","ticks":""},"caxis":{"gridcolor":"white","linecolor":"white","ticks":""}},"coloraxis":{"colorbar":{"outlinewidth":0,"ticks":""}},"colorscale":{"sequential":[[0.0,"#0d0887"],[0.1111111111111111,"#46039f"],[0.2222222222222222,"#7201a8"],[0.3333333333333333,"#9c179e"],[0.4444444444444444,"#bd3786"],[0.5555555555555556,"#d8576b"],[0.6666666666666666,"#ed7953"],[0.7777777777777778,"#fb9f3a"],[0.8888888888888888,"#fdca26"],[1.0,"#f0f921"]],"sequentialminus":[[0.0,"#0d0887"],[0.1111111111111111,"#46039f"],[0.2222222222222222,"#7201a8"],[0.3333333333333333,"#9c179e"],[0.4444444444444444,"#bd3786"],[0.5555555555555556,"#d8576b"],[0.6666666666666666,"#ed7953"],[0.7777777777777778,"#fb9f3a"],[0.8888888888888888,"#fdca26"],[1.0,"#f0f921"]],"diverging":[[0,"#8e0152"],[0.1,"#c51b7d"],[0.2,"#de77ae"],[0.3,"#f1b6da"],[0.4,"#fde0ef"],[0.5,"#f7f7f7"],[0.6,"#e6f5d0"],[0.7,"#b8e186"],[0.8,"#7fbc41"],[0.9,"#4d9221"],[1,"#276419"]]},"xaxis":{"gridcolor":"white","linecolor":"white","ticks":"","title":{"standoff":15},"zerolinecolor":"white","automargin":true,"zerolinewidth":2},"yaxis":{"gridcolor":"white","linecolor":"white","ticks":"","title":{"standoff":15},"zerolinecolor":"white","automargin":true,"zerolinewidth":2},"scene":{"xaxis":{"backgroundcolor":"#E5ECF6","gridcolor":"white","linecolor":"white","showbackground":true,"ticks":"","zerolinecolor":"white","gridwidth":2},"yaxis":{"backgroundcolor":"#E5ECF6","gridcolor":"white","linecolor":"white","showbackground":true,"ticks":"","zerolinecolor":"white","gridwidth":2},"zaxis":{"backgroundcolor":"#E5ECF6","gridcolor":"white","linecolor":"white","showbackground":true,"ticks":"","zerolinecolor":"white","gridwidth":2}},"shapedefaults":{"line":{"color":"#2a3f5f"}},"annotationdefaults":{"arrowcolor":"#2a3f5f","arrowhead":0,"arrowwidth":1},"geo":{"bgcolor":"white","landcolor":"#E5ECF6","subunitcolor":"white","showland":true,"showlakes":true,"lakecolor":"white"},"title":{"x":0.05},"mapbox":{"style":"light"}}},"geo":{"projection":{"type":"natural earth"},"showframe":false,"showcoastlines":true,"coastlinecolor":"grey","showland":true,"landcolor":"#F5F5F2","showocean":true,"oceancolor":"#EAF2F8","showlakes":false,"bgcolor":"#EAF2F8"},"margin":{"l":0,"r":0,"t":30,"b":0},"title":{"font":{"size":16},"text":"Global distribution of cancer microbiome studies","x":0.5},"hoverlabel":{"font":{"size":13,"family":"Arial"},"bgcolor":"white"},"height":500,"paper_bgcolor":"white"},                        {"responsive": true}                    )                };            </script>        </div>
 </body>
 </html>

diff --git a/index.html b/index.html
@@ -459,7 +459,7 @@
 
 
 <h1 id="curatedmetagenomicdata-cancer-datasets-overview">curatedMetagenomicData -- Cancer Datasets Overview</h1>
-<p><em>Last updated: 2026-09-07 09:02 UTC</em></p>
+<p><em>Last updated: 2026-09-07 09:30 UTC</em></p>
 <h2 id="summary">Summary</h2>
 <table>
 <thead>
@@ -471,7 +471,7 @@
 <tbody>
 <tr>
 <td><strong>Studies</strong></td>
-<td>58</td>
+<td>57</td>
 </tr>
 <tr>
 <td><strong>Countries represented</strong></td>
@@ -479,15 +479,15 @@
 </tr>
 <tr>
 <td><strong>Total samples</strong></td>
-<td>10,525</td>
+<td>10,385</td>
 </tr>
 <tr>
 <td><strong>Subjects</strong></td>
-<td>9,639 <sup id="fnref:denominator"><a class="footnote-ref" href="#fn:denominator">1</a></sup></td>
+<td>9,499 <sup id="fnref:denominator"><a class="footnote-ref" href="#fn:denominator">1</a></sup></td>
 </tr>
 <tr>
 <td>Cancer-related samples</td>
-<td>8,757 (6,725 malignant, 2,032 precursor lesions)</td>
+<td>8,617 (6,585 malignant, 2,032 precursor lesions)</td>
 </tr>
 <tr>
 <td>Non-cancer / control samples</td>
@@ -507,15 +507,15 @@
 </tr>
 <tr>
 <td>Subjects with sex information</td>
-<td>7,376 / 9,639 (76.5%) — available in 41 / 58 studies</td>
+<td>7,376 / 9,499 (77.7%) — available in 41 / 57 studies</td>
 </tr>
 <tr>
 <td>Subjects with age information</td>
-<td>6,649 / 9,639 (69.0%) — available in 40 / 58 studies</td>
+<td>6,509 / 9,499 (68.5%) — available in 39 / 57 studies</td>
 </tr>
 <tr>
 <td>Subjects with BMI information</td>
-<td>6,016 / 9,639 (62.4%) — available in 34 / 58 studies</td>
+<td>6,016 / 9,499 (63.3%) — available in 34 / 57 studies</td>
 </tr>
 </tbody>
 </table>
@@ -583,55 +583,55 @@ total above. They are counted separately in the breakdown.</p>
 </tr>
 <tr>
 <td style="text-align: left;">NagataN_2022</td>
-<td style="text-align: left;">NileS_2025</td>
 <td style="text-align: left;">NofinskaB_2026</td>
 <td style="text-align: left;">PernigoniN_2021</td>
+<td style="text-align: left;">PetersBA_2019</td>
 </tr>
 <tr>
-<td style="text-align: left;">PetersBA_2019</td>
 <td style="text-align: left;">PiccinnoG_2025_a</td>
 <td style="text-align: left;">PiccinnoG_2025_b</td>
 <td style="text-align: left;">PiccinnoG_2025_c</td>
+<td style="text-align: left;">PiccinnoG_2025_d</td>
 </tr>
 <tr>
-<td style="text-align: left;">PiccinnoG_2025_d</td>
 <td style="text-align: left;">PiccinnoG_2025_e</td>
 <td style="text-align: left;">PiccinnoG_2025_f</td>
 <td style="text-align: left;">PoetgensS_2024</td>
+<td style="text-align: left;">RoelandsJ_2023</td>
 </tr>
 <tr>
-<td style="text-align: left;">RoelandsJ_2023</td>
 <td style="text-align: left;">RoutyB_2018</td>
 <td style="text-align: left;">Routy_2023</td>
 <td style="text-align: left;">ShiZ_2025</td>
+<td style="text-align: left;">SpanogiannopoulosP_2022</td>
 </tr>
 <tr>
-<td style="text-align: left;">SpanogiannopoulosP_2022</td>
 <td style="text-align: left;">SpencerCN_2021</td>
 <td style="text-align: left;">Stein-ThoeringerCK_2023</td>
 <td style="text-align: left;">TengNM_2024</td>
+<td style="text-align: left;">ThomasAM_2019_a</td>
 </tr>
 <tr>
-<td style="text-align: left;">ThomasAM_2019_a</td>
 <td style="text-align: left;">ThomasAM_2019_b</td>
 <td style="text-align: left;">ThomasAM_2019_c</td>
 <td style="text-align: left;">VogtmannE_2016</td>
+<td style="text-align: left;">WindTT_2020</td>
 </tr>
 <tr>
-<td style="text-align: left;">WindTT_2020</td>
 <td style="text-align: left;">WirbelJ_2018</td>
 <td style="text-align: left;">XuJ_2022</td>
 <td style="text-align: left;">YachidaS_2019</td>
+<td style="text-align: left;">YangJ_2020</td>
 </tr>
 <tr>
-<td style="text-align: left;">YangJ_2020</td>
 <td style="text-align: left;">YoonS_2023</td>
 <td style="text-align: left;">YoonS_2025</td>
 <td style="text-align: left;">YuJ_2015</td>
+<td style="text-align: left;">ZellerG_2014</td>
 </tr>
 <tr>
-<td style="text-align: left;">ZellerG_2014</td>
 <td style="text-align: left;">ZhangY_2023</td>
+<td style="text-align: left;"></td>
 <td style="text-align: left;"></td>
 <td style="text-align: left;"></td>
 </tr>
@@ -642,7 +642,7 @@ total above. They are counted separately in the breakdown.</p>
 <ol>
 <li id="fn:denominator">
 <p>4,940 of these have an explicit subject identifier in the
-source metadata. 18 studies do not record subject IDs, so each of
+source metadata. 17 studies do not record subject IDs, so each of
 their samples counts as one subject and the true number of distinct people is lower.&#160;<a class="footnote-backref" href="#fnref:denominator" title="Jump back to footnote 1 in the text">&#8617;</a></p>
 </li>
 <li id="fn:repeated">
